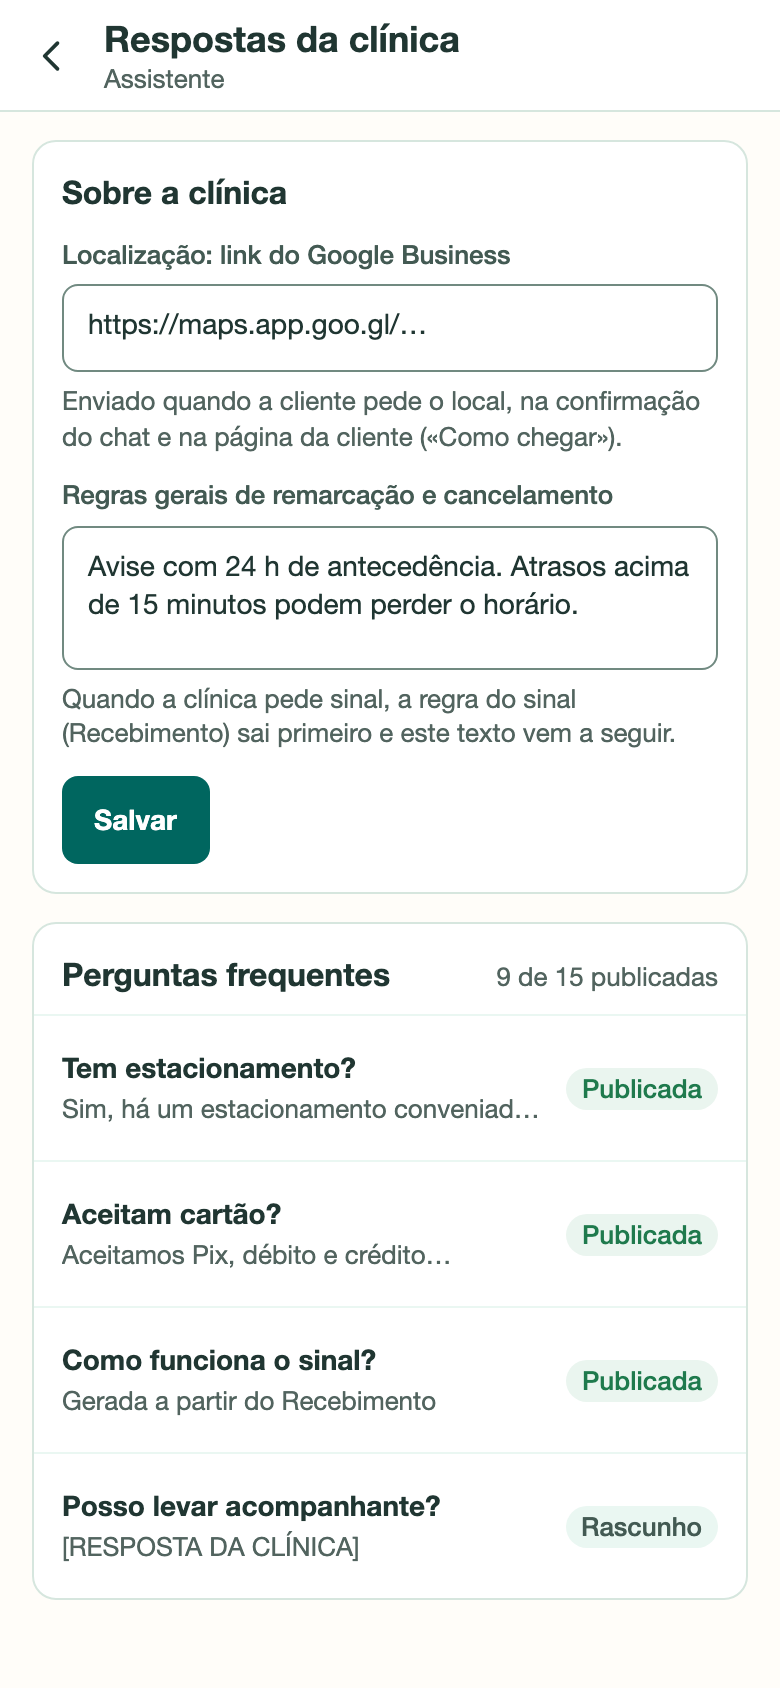
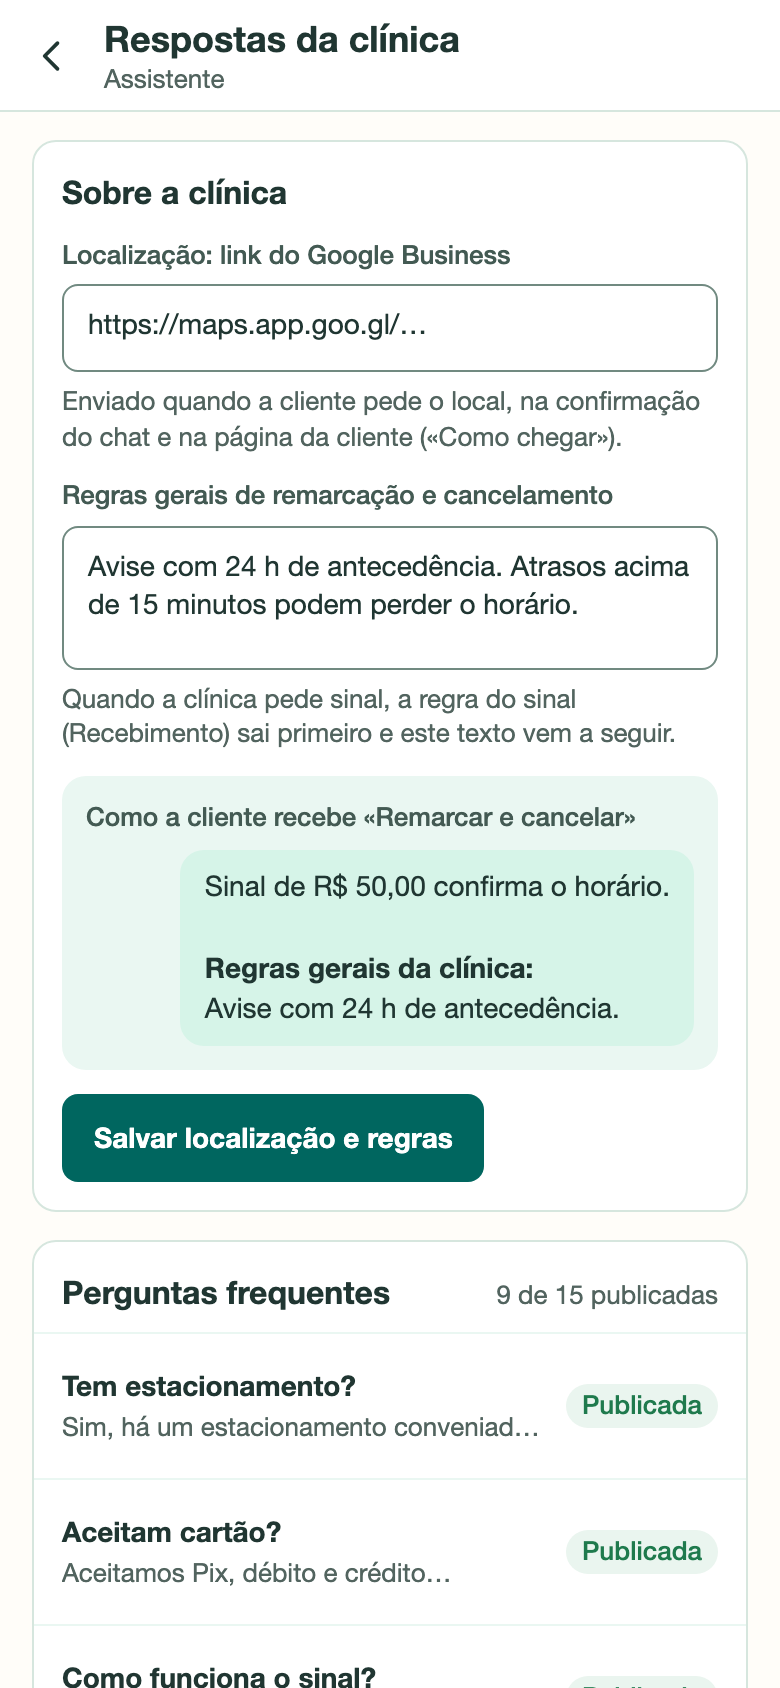
feat(panel): Respostas da clínica — sem sugestão de endereço, exemplos nos campos, um Salvar claro e pré-visualização de «Remarcar e cancelar»
Remove também o artigo de ajuda do Sugerir (DEC-217).

diff --git a/src/client/panel/screens/clinic/KnowledgeScreen.tsx b/src/client/panel/screens/clinic/KnowledgeScreen.tsx
@@ -3,7 +3,7 @@
  * Categorias CRUD + entradas Q&A (pergunta, resposta ≤500, published/draft).
  */
 import { ChevronRight, Lock, Plus, Search, Tag, Trash2, X, Pencil } from 'lucide-react'
-import { useCallback, useEffect, useMemo, useState } from 'react'
+import { useCallback, useEffect, useMemo, useState, type ReactNode } from 'react'
 import { Button, Input, Label, Switch, TextArea, TextField } from 'react-aria-components'
 import type { PanelApi } from '../../api'
 import { friendlyError } from '../../copy/errors'
@@ -32,6 +32,8 @@ type Props = {
   tenantId: string
   api: PanelApi
   generation: number
+  /** Só na lista: o cartão «Sobre a clínica». Some no editor, com o seu botão Salvar. */
+  listHeader?: ReactNode
 }
 
 const ANSWER_MAX = 500
@@ -42,17 +44,40 @@ const SIGNAL_KEY = 'signal_policy'
 const POLICY_TOPIC = /\b(sinal|multa|cancel\w*|remarc\w*|reagend\w*)/i
 
 /** Primeira vez: o dono toca e abre o editor com a pergunta e a categoria prontas. */
-const SUGGESTIONS: Array<{ question: string; category: string }> = [
-  { question: 'Tem estacionamento?', category: 'Acesso' },
-  { question: 'Qual o endereço e como chegar?', category: 'Acesso' },
-  { question: 'Quais formas de pagamento aceitam?', category: 'Pagamento' },
-  { question: 'Posso levar acompanhante?', category: 'Visita' },
-  { question: 'Com quanto tempo de antecedência devo chegar?', category: 'Visita' },
+// A localização não é sugestão: vem do link do Google Business no cartão «Sobre a clínica».
+const SUGGESTIONS: Array<{ question: string; category: string; example: string }> = [
+  {
+    question: 'Tem estacionamento?',
+    category: 'Acesso',
+    example: 'Ex.: Sim, há estacionamento conveniado ao lado. Mostre o ticket na recepção.',
+  },
+  {
+    question: 'Quais formas de pagamento aceitam?',
+    category: 'Pagamento',
+    example: 'Ex.: Aceitamos Pix, débito e crédito em até 3 vezes.',
+  },
+  {
+    question: 'Posso levar acompanhante?',
+    category: 'Visita',
+    example: 'Ex.: Pode, mas a sala de procedimento é só para a cliente.',
+  },
+  {
+    question: 'Com quanto tempo de antecedência devo chegar?',
+    category: 'Visita',
+    example: 'Ex.: Chegue 10 minutos antes para o cadastro.',
+  },
+  {
+    question: 'Como é a primeira consulta?',
+    category: 'Visita',
+    example: 'Ex.: Começa com uma avaliação de 20 minutos, sem custo.',
+  },
 ]
+const ANSWER_PLACEHOLDER = 'Escreva a resposta como a clínica a diria no WhatsApp.'
 
 type View = 'list' | 'edit' | 'categories'
 
-export function KnowledgeScreen({ tenantId, api, generation }: Props) {
+export function KnowledgeScreen({ tenantId, api, generation, listHeader }: Props) {
+  const [answerExample, setAnswerExample] = useState(ANSWER_PLACEHOLDER)
   const [categories, setCategories] = useState<KnowledgeCategoryDto[]>([])
   const [entries, setEntries] = useState<KnowledgeEntryDto[]>([])
   const [loading, setLoading] = useState(true)
@@ -125,7 +150,8 @@ export function KnowledgeScreen({ tenantId, api, generation }: Props) {
   const draftCount = entries.length - publishedCount
   const quotaFull = publishedCount >= PUBLISHED_MAX
 
-  const openNew = (suggestion?: { question: string; category: string }) => {
+  const openNew = (suggestion?: { question: string; category: string; example?: string }) => {
+    setAnswerExample(suggestion?.example ?? ANSWER_PLACEHOLDER)
     const match = suggestion
       ? categories.find((c) => c.name.toLowerCase() === suggestion.category.toLowerCase())
       : undefined
@@ -439,6 +465,7 @@ export function KnowledgeScreen({ tenantId, api, generation }: Props) {
             onChange={(e) => setAnswer(e.target.value)}
             maxLength={ANSWER_MAX}
             rows={4}
+            placeholder={answerExample}
             readOnly={locked}
           />
           <span className="clinic-muted">Enviada exatamente assim. A IA não reescreve.</span>
@@ -582,6 +609,7 @@ export function KnowledgeScreen({ tenantId, api, generation }: Props) {
 
   return (
     <div className="kn-stack">
+      {listHeader}
       {errorBanner}
 
       {firstRun ? (

diff --git a/src/client/panel/screens/clinic/AiAssistCard.tsx b/src/client/panel/screens/clinic/AiAssistCard.tsx
@@ -7,6 +7,7 @@ import {
   checkGoogleBusinessUrl,
   GOOGLE_BUSINESS_URL_MAX_LENGTH,
 } from '../../../../clinic/config/google-business-link'
+import { GENERAL_POLICY_MAX_CHARS, joinPolicyParts } from '../../../../clinic/ai/policy-join'
 
 type VirtualGender = 'masculino' | 'feminino' | ''
 
@@ -151,6 +152,24 @@ export function AiProfileCard({
   const wide = useMediaQuery('(min-width: 1280px)')
   const [busy, setBusy] = useState(false)
   const [note, setNote] = useState<string | null>(null)
+  // Texto do sinal (Recebimento), só leitura: entra primeiro na resposta «Remarcar e cancelar».
+  const [signalText, setSignalText] = useState<string | null>(null)
+  useEffect(() => {
+    if (part !== 'facts') return
+    let cancelled = false
+    void Promise.resolve(api.getPix?.(tenantId, { generation, expectGeneration: () => generation }))
+      .then((pix) => {
+        if (cancelled || !pix) return
+        const s = pix.signalSettings
+        setSignalText(s.enabled ? s.cancellationPolicy.trim() : '')
+      })
+      .catch(() => {
+        /* pré-visualização é best-effort */
+      })
+    return () => {
+      cancelled = true
+    }
+  }, [api, tenantId, generation, part])
 
   const dirty =
     part === 'facts'
@@ -197,6 +216,9 @@ export function AiProfileCard({
     }
   }
 
+  const saveLabel = part === 'facts' ? 'Salvar localização e regras' : 'Salvar'
+  const policyPreview = joinPolicyParts(signalText ?? '', policy)
+
   const actions = wide ? (
     // DEC-183: no desktop, «Salvar» e «Descartar» ficam no cabeçalho, sempre à vista.
     <ShellSlot>
@@ -215,14 +237,14 @@ export function AiProfileCard({
             onPress={() => void save()}
             isDisabled={busy || !dirty}
           >
-            {busy ? 'Salvando…' : 'Salvar'}
+            {busy ? 'Salvando…' : saveLabel}
           </Button>
         </span>
       </div>
     </ShellSlot>
   ) : (
     <Button className="panel-btn panel-btn-secondary" onPress={() => void save()} isDisabled={busy}>
-      {busy ? 'Salvando…' : 'Salvar'}
+      {busy ? 'Salvando…' : saveLabel}
     </Button>
   )
 
@@ -265,13 +287,28 @@ export function AiProfileCard({
               value={policy}
               onChange={(e) => setPolicy(e.target.value)}
               rows={3}
-              maxLength={500}
+              maxLength={GENERAL_POLICY_MAX_CHARS}
+              placeholder="Ex.: Avise com 24 h de antecedência. Atrasos acima de 15 minutos podem perder o horário."
             />
             <Text slot="description" className="panel-muted-sm">
-              Aviso prévio, atrasos, faltas. Quando a clínica pede sinal, a regra do sinal
-              (Recebimento) sai primeiro e este texto vem a seguir.
+              Aviso prévio, atrasos, faltas. {policy.length}/{GENERAL_POLICY_MAX_CHARS}
             </Text>
           </TextField>
+          <section className="kn-preview" aria-labelledby="policy-prev-t">
+            <h3 id="policy-prev-t" className="kn-sub">
+              Como a cliente recebe «Remarcar e cancelar»
+            </h3>
+            <div className="kn-preview-pane">
+              <p className="kn-bubble kn-bubble--out">
+                {policyPreview || 'Sem regras cadastradas: a pergunta passa para a equipe.'}
+              </p>
+              <span className="kn-preview-note">
+                {signalText
+                  ? 'A parte do sinal vem do Recebimento e se edita lá.'
+                  : 'Sem sinal ligado, só saem as regras gerais.'}
+              </span>
+            </div>
+          </section>
         </>
       ) : (
         <>

diff --git a/docs/design/mobile/ClinicaAssistente.dc.html b/docs/design/mobile/ClinicaAssistente.dc.html
@@ -32,7 +32,8 @@ button{font-family:inherit}
 <h2 style="margin: 0; font-size: 16px; font-weight: 600">Sobre a clínica</h2>
 <div style="display: flex; flex-direction: column; gap: 6px"><span style="font-size: 13px; font-weight: 500; color: #435A53">Localização: link do Google Business</span><div style="min-height: 44px; box-sizing: border-box; border: 1px solid #718A81; border-radius: 8px; padding: 10px 12px; background: #FFFFFF; font-size: 14px">https://maps.app.goo.gl/…</div><span style="font-size: 13px; color: #52645F">Enviado quando a cliente pede o local, na confirmação do chat e na página da cliente («Como chegar»).</span></div>
 <div style="display: flex; flex-direction: column; gap: 6px"><span style="font-size: 13px; font-weight: 500; color: #435A53">Regras gerais de remarcação e cancelamento</span><div style="min-height: 72px; box-sizing: border-box; border: 1px solid #718A81; border-radius: 8px; padding: 10px 12px; background: #FFFFFF; font-size: 14px">Avise com 24 h de antecedência. Atrasos acima de 15 minutos podem perder o horário.</div><span style="font-size: 13px; color: #52645F">Quando a clínica pede sinal, a regra do sinal (Recebimento) sai primeiro e este texto vem a seguir.</span></div>
-<button style="align-self: flex-start; min-height: 44px; padding: 0 16px; border: 0; border-radius: 8px; background: #00665F; color: #FFFFFF; font-size: 14px; font-weight: 600">Salvar</button>
+<div style="background: #EAF7F2; border-radius: 12px; padding: 12px; display: flex; flex-direction: column; gap: 8px"><span style="font-size: 13px; font-weight: 500; color: #435A53">Como a cliente recebe «Remarcar e cancelar»</span><span style="align-self: flex-end; background: #D6F4E8; border-radius: 12px; padding: 8px 12px; font-size: 14px; line-height: 1.45">Sinal de R$ 50,00 confirma o horário.<br><br><b>Regras gerais da clínica:</b><br>Avise com 24 h de antecedência.</span></div>
+<button style="align-self: flex-start; min-height: 44px; padding: 0 16px; border: 0; border-radius: 8px; background: #00665F; color: #FFFFFF; font-size: 14px; font-weight: 600">Salvar localização e regras</button>
 </section>
 <section aria-label="Perguntas frequentes" style="display: flex; flex-direction: column; background: #FFFFFF; border: 1px solid #D6E6DE; border-radius: 12px">
 <div style="display: flex; align-items: baseline; justify-content: space-between; padding: 14px 14px 10px"><h2 style="margin: 0; font-size: 16px; font-weight: 600">Perguntas frequentes</h2><span style="font-size: 13px; color: #52645F">9 de 15 publicadas</span></div>

diff --git a/src/client/panel/screens/clinic/AiProfileFacts.test.tsx b/src/client/panel/screens/clinic/AiProfileFacts.test.tsx
@@ -1,0 +1,51 @@
+// @vitest-environment jsdom
+import { cleanup, fireEvent, render, screen, waitFor } from '@testing-library/react'
+import { afterEach, describe, expect, it, vi } from 'vitest'
+import type { PanelApi } from '../../api'
+import '../../../ui/panel.css'
+import { AiProfileCard } from './AiAssistCard'
+
+afterEach(cleanup)
+
+function api(signal: { enabled: boolean; cancellationPolicy: string }): PanelApi {
+  return {
+    getPix: vi.fn(async () => ({ signalSettings: signal })),
+    setClinicAiProfile: vi.fn(async () => ({ ok: true })),
+  } as unknown as PanelApi
+}
+
+describe('Sobre a clínica — regras gerais', () => {
+  it('mostra como a cliente recebe: sinal primeiro, frase de ligação, regras gerais; botão com nome claro', async () => {
+    render(
+      <AiProfileCard
+        tenantId="clinic-demo-a"
+        api={api({ enabled: true, cancellationPolicy: 'Sinal de R$ 50,00 confirma o horário.' })}
+        generation={1}
+        part="facts"
+        initialReschedulePolicy="Atrasos acima de 15 minutos perdem o horário."
+      />,
+    )
+    const preview = await screen.findByRole('region', { name: /Como a cliente recebe/ })
+    await waitFor(() => expect(preview.textContent).toContain('Sinal de R$ 50,00'))
+    expect(preview.textContent).toContain('Regras gerais da clínica:')
+    expect(preview.textContent).toContain('Atrasos acima de 15 minutos')
+    expect(screen.getByRole('button', { name: 'Salvar localização e regras' })).toBeTruthy()
+  })
+
+  it('sem sinal ligado só saem as regras gerais; o contador acompanha o texto', async () => {
+    render(
+      <AiProfileCard
+        tenantId="clinic-demo-a"
+        api={api({ enabled: false, cancellationPolicy: 'Texto antigo do sinal.' })}
+        generation={1}
+        part="facts"
+      />,
+    )
+    const box = screen.getByRole('textbox', { name: /Regras gerais/ })
+    fireEvent.change(box, { target: { value: 'Avise com 24 h.' } })
+    const preview = await screen.findByRole('region', { name: /Como a cliente recebe/ })
+    await waitFor(() => expect(preview.textContent).toContain('Avise com 24 h.'))
+    expect(preview.textContent).not.toContain('Texto antigo')
+    expect(screen.getByText(/15\/500/)).toBeTruthy()
+  })
+})

diff --git a/src/clinic/ai/policy-reply.ts b/src/clinic/ai/policy-reply.ts
@@ -7,14 +7,14 @@ import type { Clock } from '../../db/clock'
 import type { ClinicDb } from '../store'
 import { effectiveSignalCancellationPolicy } from '../pix/signal-settings'
 import { ensureClinicSettings } from '../config/settings'
+import { joinPolicyParts } from './policy-join'
 
-/** DEC-210: frase que liga a regra do sinal (Recebimento) às regras gerais da clínica. */
-export const POLICY_JOIN_PHRASE = 'Regras gerais da clínica:'
-/** Limite da resposta combinada (cabe numa mensagem de WhatsApp sem cortar). */
-export const POLICY_REPLY_MAX_CHARS = 1000
-export const POLICY_OVERFLOW_PHRASE = 'Para as demais regras, fale com a equipe.'
-/** Tamanho máximo das regras gerais (campo no painel e servidor). */
-export const GENERAL_POLICY_MAX_CHARS = 500
+export {
+  GENERAL_POLICY_MAX_CHARS,
+  POLICY_JOIN_PHRASE,
+  POLICY_OVERFLOW_PHRASE,
+  POLICY_REPLY_MAX_CHARS,
+} from './policy-join'
 
 export function buildCancellationPolicyReply(db: ClinicDb, tenantId: string, clock: Clock): string {
   const settings = ensureClinicSettings(db, tenantId, clock)
@@ -25,12 +25,5 @@ export function buildCancellationPolicyReply(db: ClinicDb, tenantId: string, clo
     )?.signal_enabled ?? 0) === 1
   const a = signalOn ? effectiveSignalCancellationPolicy(db, tenantId, clock).trim() : ''
   const b = settings.reschedulePolicy.trim()
-  if (a && b && !a.includes(b) && !b.includes(a)) {
-    const joined = `${a}\n\n${POLICY_JOIN_PHRASE}\n${b}`
-    // Passa do limite: a regra do dinheiro (A) sai inteira e o resto vai para a equipe.
-    return joined.length > POLICY_REPLY_MAX_CHARS ? `${a}\n\n${POLICY_OVERFLOW_PHRASE}` : joined
-  }
-  // Um contém o outro (texto copiado): fica o mais completo, sem repetir.
-  if (a && b) return a.length >= b.length ? a : b
-  return a || b
+  return joinPolicyParts(a, b)
 }

diff --git a/src/clinic/ai/policy-join.ts b/src/clinic/ai/policy-join.ts
@@ -1,0 +1,26 @@
+/**
+ * DEC-210: junção pura da resposta «Remarcar e cancelar» (sem acesso a dados).
+ * Usada pelo servidor (`policy-reply.ts`) e pela pré-visualização do painel.
+ */
+
+/** Frase que liga a regra do sinal (Recebimento) às regras gerais da clínica. */
+export const POLICY_JOIN_PHRASE = 'Regras gerais da clínica:'
+/** Limite da resposta combinada (cabe numa mensagem de WhatsApp sem cortar). */
+export const POLICY_REPLY_MAX_CHARS = 1000
+export const POLICY_OVERFLOW_PHRASE = 'Para as demais regras, fale com a equipe.'
+/** Tamanho máximo das regras gerais (campo no painel e servidor). */
+export const GENERAL_POLICY_MAX_CHARS = 500
+
+/** `a` = texto do sinal (vazio se o sinal está desligado); `b` = regras gerais. */
+export function joinPolicyParts(a: string, b: string): string {
+  const sinal = a.trim()
+  const gerais = b.trim()
+  if (sinal && gerais && !sinal.includes(gerais) && !gerais.includes(sinal)) {
+    const joined = `${sinal}\n\n${POLICY_JOIN_PHRASE}\n${gerais}`
+    // Passa do limite: a regra do dinheiro sai inteira e o resto vai para a equipe.
+    return joined.length > POLICY_REPLY_MAX_CHARS ? `${sinal}\n\n${POLICY_OVERFLOW_PHRASE}` : joined
+  }
+  // Um contém o outro (texto copiado): fica o mais completo, sem repetir.
+  if (sinal && gerais) return sinal.length >= gerais.length ? sinal : gerais
+  return sinal || gerais
+}

diff --git a/src/client/panel/screens/clinic/ClinicArea.tsx b/src/client/panel/screens/clinic/ClinicArea.tsx
@@ -394,18 +394,22 @@ export function ClinicArea({ tenantId, section, entityId }: Props) {
         )
       case 'conhecimento':
         return (
-          <div className="clinic-stack">
-            <AiProfileCard
-              tenantId={tenantId}
-              api={api}
-              generation={generation}
-              part="facts"
-              initialGoogleBusinessUrl={snap.settings.googleBusinessUrl ?? null}
-              initialReschedulePolicy={snap.settings.reschedulePolicy ?? null}
-              onSaved={() => void reload()}
-            />
-            <KnowledgeScreen tenantId={tenantId} api={api} generation={generation} />
-          </div>
+          <KnowledgeScreen
+            tenantId={tenantId}
+            api={api}
+            generation={generation}
+            listHeader={
+              <AiProfileCard
+                tenantId={tenantId}
+                api={api}
+                generation={generation}
+                part="facts"
+                initialGoogleBusinessUrl={snap.settings.googleBusinessUrl ?? null}
+                initialReschedulePolicy={snap.settings.reschedulePolicy ?? null}
+                onSaved={() => void reload()}
+              />
+            }
+          />
         )
       case 'assistente-persona':
         return (

diff --git a/src/client/panel/screens/clinic/KnowledgeScreen.test.tsx b/src/client/panel/screens/clinic/KnowledgeScreen.test.tsx
@@ -29,4 +29,22 @@ describe('Respostas da clínica — editor da pergunta', () => {
     const css = readFileSync(join(__dirname, '../../../ui/panel.css'), 'utf8')
     expect(css).toMatch(/\.kn-cue-input\s*\{[^}]*flex:\s*1/)
   })
+
+  it('sugestões sem endereço; tocar numa dá exemplo no campo da resposta; o cartão de cima só aparece na lista', async () => {
+    render(
+      <KnowledgeScreen
+        tenantId="clinic-demo-a"
+        api={api()}
+        generation={1}
+        listHeader={<section aria-label="Sobre a clínica">cartão</section>}
+      />,
+    )
+    expect(await screen.findByRole('region', { name: 'Sobre a clínica' })).toBeTruthy()
+    expect(screen.queryByText('Qual o endereço e como chegar?')).toBeNull()
+    fireEvent.click(screen.getByRole('button', { name: /Tem estacionamento\?/ }))
+    const resposta = (await screen.findByRole('textbox', { name: 'Resposta à cliente' })) as HTMLTextAreaElement
+    expect(resposta.value).toBe('')
+    expect(resposta.placeholder).toMatch(/estacionamento conveniado/)
+    expect(screen.queryByRole('region', { name: 'Sobre a clínica' })).toBeNull()
+  })
 })
